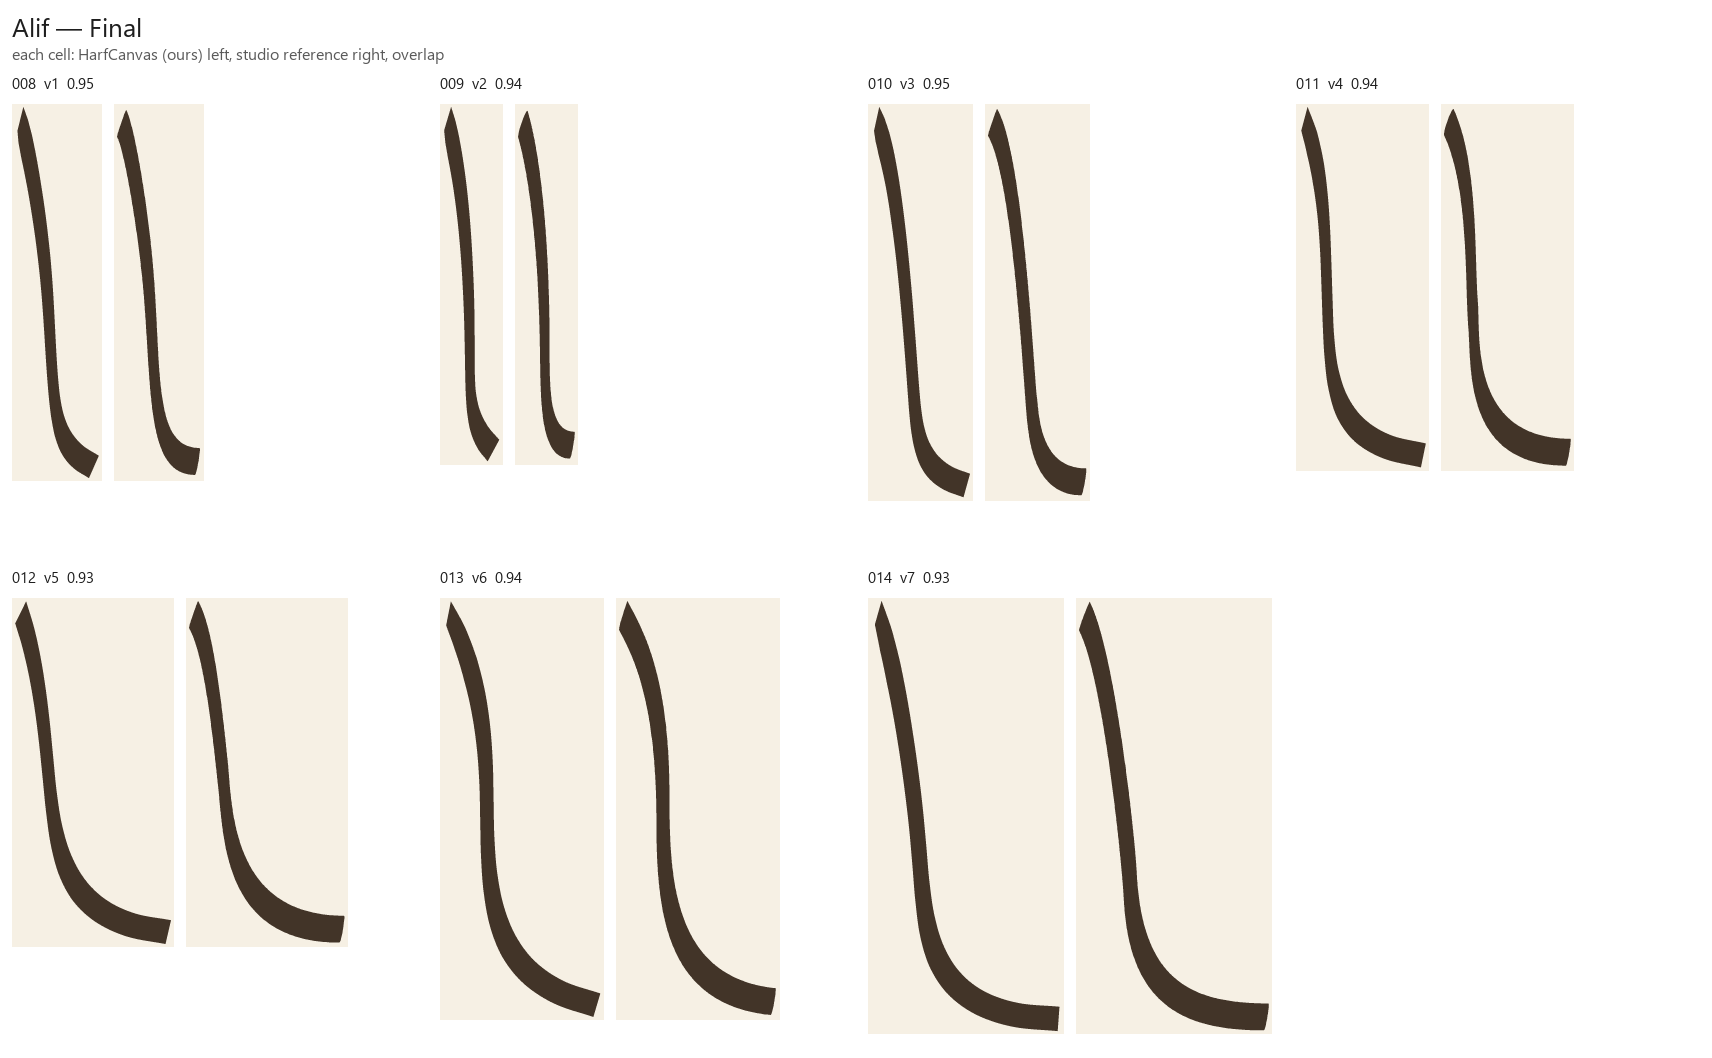
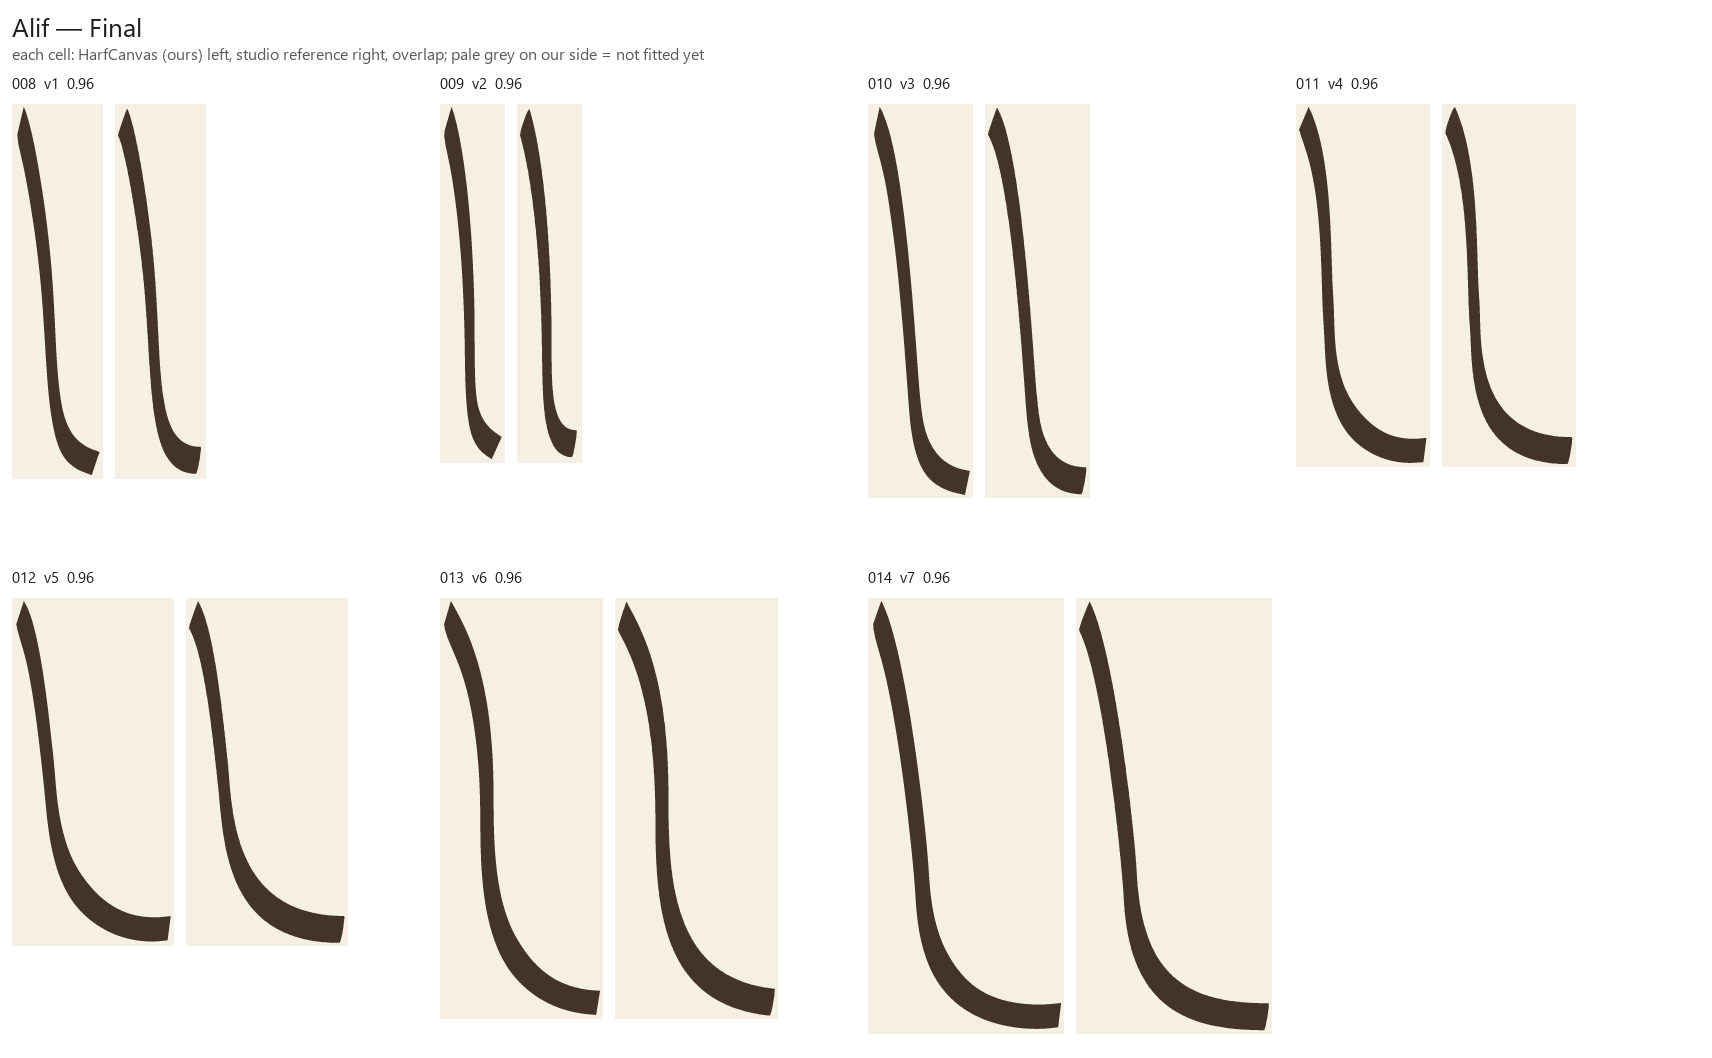
Alif approved into the studio catalogue; corners excused in the CPU refine
The alif 001's stem refitted into its hat, the paper shut in against a fill
filled as the fine pen would; the 005's curled top end searched again and
chosen by worst miss first. The user approved all alifs. The catalogue now
lists approved groups only. pieces.refine's shape price moves to
shape_cost, which excuses a "corner" node its bend and fold, so a tooth can
go up to a point and straight back down. The ledger records these and the
overshoot of reused strokes (split.py).

Claude-Session: https://claude.ai/code/session_01XKSn9LffW5ruEBSXbs53N4

diff --git a/scripts/pen/pieces.py b/scripts/pen/pieces.py
@@ -140,6 +140,22 @@ def fit_pull(piece, origin, ppn, pen_px, start, free_width=True):
     return out, round(1 - r.fun, 3)
 
 
+def shape_cost(a, corners, rough):
+    """refine's price on a path's shape, rows (x, y, nib angle): rough * (changes of bend along the centre line, and
+    of the nib's rate of turning), plus a heavy one for doubling back, since a fold can hide under ink already drawn
+    and cost nothing in overlap. A node in `corners` (the spec's "corner": a tooth's tip, where the pen goes up and
+    comes straight back) is excused both its bend and its fold; the nib's turning still counts there."""
+    n = len(a)
+    bend = np.diff(a[:, :2], 3, axis=0) / 0.1 if n > 3 else np.zeros((1, 2))
+    if n > 3:
+        bend = bend[[j for j in range(n - 3) if not {j + 1, j + 2} & corners]] if corners else bend
+    turn = np.diff(a[:, 2], 2) / 30 if n > 2 else np.zeros(1)
+    ch = np.diff(a[:, :2], axis=0)
+    cos = np.sum(ch[1:] * ch[:-1], 1) / (np.linalg.norm(ch[1:], axis=1) * np.linalg.norm(ch[:-1], axis=1) + 1e-9)
+    fold = np.sum([max(0, -c) for j, c in enumerate(cos) if j + 1 not in corners]) * 10
+    return rough * (np.sum(bend ** 2) + np.sum(turn ** 2)) + fold
+
+
 def refine(nodes, pieces, origin, ppn, pen_px, rough=0.02, edge=1.0, iters=3, fixed=(), others=(), res=0.5, ignore=()):
     """Nudge a band's nodes (positions and nib angles; end widths stay) to cover its reference pieces, smoothly:
     cost = 1 - overlap + edge * (mean outline gap both ways, nuqta) + rough * (changes of bend along the centre
@@ -189,13 +205,9 @@ def refine(nodes, pieces, origin, ppn, pen_px, rough=0.02, edge=1.0, iters=3, fi
             A &= keep
         iou = (A & B).sum() / max(1, (A | B).sum())
         gap = (outline_gap(A, B).mean() + outline_gap(B, A).mean()) / sub / ppn
-        bend = np.diff(a[:, :2], 3, axis=0) / 0.1 if n > 3 else np.zeros((1, 2))
-        turn = np.diff(a[:, 2], 2) / 30 if n > 2 else np.zeros(1)
-        # a stroke doubling back on itself can hide under ink already drawn and cost nothing in overlap
-        ch = np.diff(a[:, :2], axis=0)
-        cos = np.sum(ch[1:] * ch[:-1], 1) / (np.linalg.norm(ch[1:], axis=1) * np.linalg.norm(ch[:-1], axis=1) + 1e-9)
-        fold = np.sum(np.maximum(0, -cos)) * 10
-        return 1 - iou + edge * gap + rough * (np.sum(bend ** 2) + np.sum(turn ** 2)) + fold
+        return 1 - iou + edge * gap + shape_cost(a, corners, rough)
+
+    corners = {i for i, q in enumerate(nodes) if q.get("corner")}
 
     v = np.zeros((len(free) * 3,))
     for _ in range(iters):

diff --git a/docs/calligraphy/studio-catalogue.md b/docs/calligraphy/studio-catalogue.md
@@ -4,27 +4,29 @@ Generated by the authoring scripts; do not edit by hand. The method, the source 
 are in [stroke-ledger.md](stroke-ledger.md#the-studio-catalogue). Each sheet shows every shape of one
 letter group and form, ours beside the studio's; overlap is shared ink over all ink, for the whole shape.
 
-Letter groups fitted so far: 1 of 22; shapes 16 of 781.
+Letter groups approved by the user so far: 1 of 22; shapes 16 of 781.
 
 ## Alif
 
-16 shapes, 19 strokes; overlap mean 0.936, lowest 0.895.
+Approved 2026-10-20: "the fixes worked really well and you can now add all alifs".
+
+16 shapes, 19 strokes; overlap mean 0.956, lowest 0.922.
 
 | id | form | variant | strokes | overlap | sheet |
 |---|---|---|---|---|---|
-| 001 | Isolated | 1 | 3 | 0.969 | [Isolated](comparisons/studio/Alif%20-%20Isolated.png) |
-| 002 | Isolated | 2 | 1 | 0.925 | [Isolated](comparisons/studio/Alif%20-%20Isolated.png) |
-| 003 | Isolated | 3 | 2 | 0.939 | [Isolated](comparisons/studio/Alif%20-%20Isolated.png) |
-| 003b | Isolated | 3b | 1 | 0.955 | [Isolated](comparisons/studio/Alif%20-%20Isolated.png) |
-| 003c | Isolated | 3c | 1 | 0.939 | [Isolated](comparisons/studio/Alif%20-%20Isolated.png) |
-| 004 | Medial | 1 | 1 | 0.908 | [Medial](comparisons/studio/Alif%20-%20Medial.png) |
-| 005 | Medial | 2 | 1 | 0.915 | [Medial](comparisons/studio/Alif%20-%20Medial.png) |
-| 006 | Medial | 3 | 1 | 0.953 | [Medial](comparisons/studio/Alif%20-%20Medial.png) |
-| 007 | Medial | 4 | 1 | 0.895 | [Medial](comparisons/studio/Alif%20-%20Medial.png) |
-| 008 | Final | 1 | 1 | 0.947 | [Final](comparisons/studio/Alif%20-%20Final.png) |
-| 009 | Final | 2 | 1 | 0.938 | [Final](comparisons/studio/Alif%20-%20Final.png) |
-| 010 | Final | 3 | 1 | 0.954 | [Final](comparisons/studio/Alif%20-%20Final.png) |
-| 011 | Final | 4 | 1 | 0.935 | [Final](comparisons/studio/Alif%20-%20Final.png) |
-| 012 | Final | 5 | 1 | 0.928 | [Final](comparisons/studio/Alif%20-%20Final.png) |
-| 013 | Final | 6 | 1 | 0.939 | [Final](comparisons/studio/Alif%20-%20Final.png) |
-| 014 | Final | 7 | 1 | 0.934 | [Final](comparisons/studio/Alif%20-%20Final.png) |
+| 001 | Isolated | 1 | 3 | 0.984 | [Isolated](comparisons/studio/Alif%20-%20Isolated.png) |
+| 002 | Isolated | 2 | 1 | 0.931 | [Isolated](comparisons/studio/Alif%20-%20Isolated.png) |
+| 003 | Isolated | 3 | 2 | 0.946 | [Isolated](comparisons/studio/Alif%20-%20Isolated.png) |
+| 003b | Isolated | 3b | 1 | 0.974 | [Isolated](comparisons/studio/Alif%20-%20Isolated.png) |
+| 003c | Isolated | 3c | 1 | 0.961 | [Isolated](comparisons/studio/Alif%20-%20Isolated.png) |
+| 004 | Medial | 1 | 1 | 0.948 | [Medial](comparisons/studio/Alif%20-%20Medial.png) |
+| 005 | Medial | 2 | 1 | 0.948 | [Medial](comparisons/studio/Alif%20-%20Medial.png) |
+| 006 | Medial | 3 | 1 | 0.964 | [Medial](comparisons/studio/Alif%20-%20Medial.png) |
+| 007 | Medial | 4 | 1 | 0.922 | [Medial](comparisons/studio/Alif%20-%20Medial.png) |
+| 008 | Final | 1 | 1 | 0.958 | [Final](comparisons/studio/Alif%20-%20Final.png) |
+| 009 | Final | 2 | 1 | 0.957 | [Final](comparisons/studio/Alif%20-%20Final.png) |
+| 010 | Final | 3 | 1 | 0.959 | [Final](comparisons/studio/Alif%20-%20Final.png) |
+| 011 | Final | 4 | 1 | 0.958 | [Final](comparisons/studio/Alif%20-%20Final.png) |
+| 012 | Final | 5 | 1 | 0.955 | [Final](comparisons/studio/Alif%20-%20Final.png) |
+| 013 | Final | 6 | 1 | 0.965 | [Final](comparisons/studio/Alif%20-%20Final.png) |
+| 014 | Final | 7 | 1 | 0.958 | [Final](comparisons/studio/Alif%20-%20Final.png) |

diff --git a/docs/calligraphy/stroke-ledger.md b/docs/calligraphy/stroke-ledger.md
@@ -429,6 +429,15 @@ folder and are not committed; only our fitted strokes go into the project.
   is fitted again, which leaves **500 single shapes and 281 pairs, 2,500
   distinct strokes**. A stroke drawn the same in two shapes is fitted once
   and moved into place.
+- **But a reused stroke can overshoot.** The match is on the stroke's
+  outline alone, while the fit ignores its neighbours' ground (see
+  [Joins](#joins)). So its ends may run into a neighbour that the shape it
+  is moved into doesn't have. The Ba 047 showed a block of ink the studio
+  hasn't got (the user, 2026-10-20). `split.py` measures each reused
+  stroke's ink outside the new shape's studio ink, against the same at
+  home. Where it grows by more than 0.01 square nuqta, the stroke gets its
+  own fit in that shape, refined from the moved one. 19 of the first 229
+  did. Run it again as each group's first fits land.
 
 **Units and the line.** The catalogue is drawn at 25.9 units to the nuqta
 in every entry, and the pen is 25.9 / 1.65 units wide.
@@ -470,6 +479,21 @@ that choice. Two kinds so far:
   ins"; 20 shapes, 10 distinct strokes). Measuring each stroke's widest
   point against the nib does **not** find fills: 245 strokes are wider than
   1.15 nibs somewhere, and neither of these is among them. Ask the user.
+  The fine pen fills up to the nib's strokes, so paper shut in against a
+  filled mark is part of it. A nib's straight edge can't follow the
+  curved edge of a fill exactly: the alif 001's stem stopped 0.006 nuqta
+  short of its hat and left a speck (2026-10-20). The sheets fill any such
+  enclosed paper that touches a fill; the app must do the same.
+- **A local search, by script** (`fix_alif.py` and its kind). The fix is
+  written as the stroke's `.f` result and marked with a `how` so
+  `fixes.py` never queues it again. The alif 005's top end curled back on
+  itself: the nib swung about 115° in seven nodes, a hook the studio
+  hasn't got. The curled nodes were dropped and the end searched (nib
+  angle in 10° steps either side of the next node's, width 1 or 0.75; the
+  first five nodes free, the rest held). **Choose by the worst miss first,
+  then the area.** The hook covers a little of the studio's ink, so on
+  area alone the search put a start with the hook back on top. By worst
+  miss, 0.137 → 0.085 nuqta, and the end is one clean slanted cut.
 
 **Judging a group.** Each letter group and form has a sheet of every
 shape, ours beside the studio's, with the shape's overlap. Both sides
@@ -481,6 +505,10 @@ this was). A shape under
 0.85 is marked in red. Each sheet is checked by eye before its group is
 recorded: by the user's standing instruction, a group that matches within
 reason is recorded and work moves on. The user looks periodically.
+A group enters [studio-catalogue.md](studio-catalogue.md) only once the
+user has approved it (`approved.json` in the authoring scripts, with
+their words). **Alif: approved 2026-10-20**, after the fixes to 001 and
+005: "the fixes worked really well and you can now add all alifs".
 
 ## Joins
 
